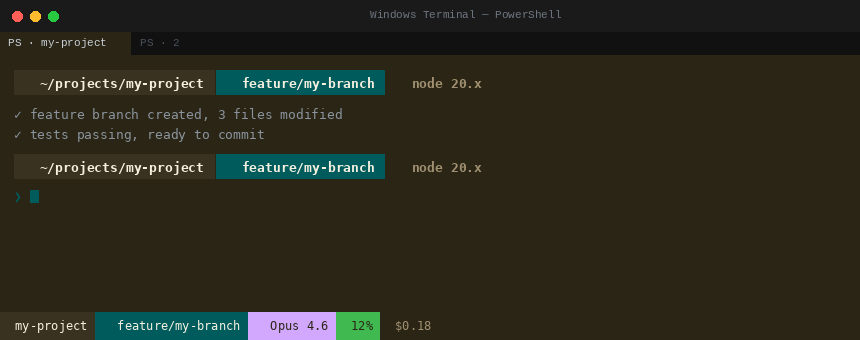
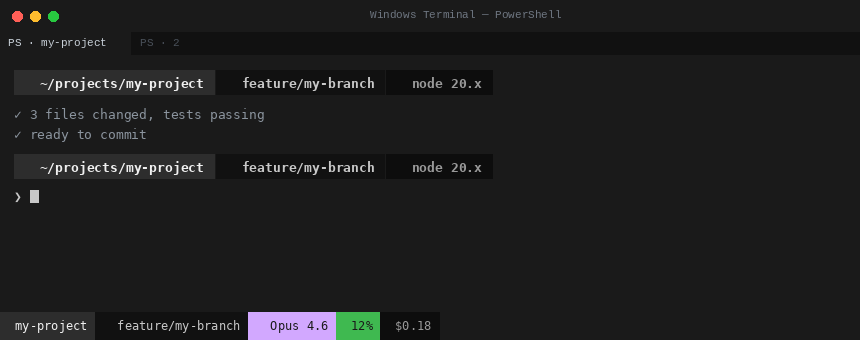
Update Steelheads theme in screenshots and GitHub Pages preview
Replace cream-sunday screenshot with new dark charcoal/off-white
Steelheads capture, and update index.html with Steelheads theme entry
honoring the 1946 Seattle Steelheads of the West Coast Negro Baseball League.

diff --git a/index.html b/index.html
@@ -162,7 +162,7 @@ h1 { font-size: 20px; font-weight: 700; margin-bottom: 4px; }
 <div id="install-area"></div>
 
 <div class="tip">
-  💡 <strong>Auto-switches by day of week</strong> — Friday loads City Connect automatically, Sunday loads Cream Sunday.
+  💡 <strong>Auto-switches by day of week</strong> — Friday loads City Connect automatically, Sunday loads the Steelheads throwback.
   Override anytime with <code>Set-Theme mariners-classic</code> (Windows) or <code>set-theme mariners-classic</code> (Mac).
   Run <code>List-Themes</code> to see the full schedule.
 </div>
@@ -347,47 +347,48 @@ const themes = [
     ],
   },
   {
-    id: 'cream-sunday',
-    label: '🥛 Cream Sunday',
-    pillBg: '#F5F0E0',
-    pillColor: '#0C2C56',
-    story: '<strong>Cream Sunday Fauxback</strong> — the vintage home alternate, worn Sundays. Warm cream base with navy + teal accents. Calm, classic. Auto-loads every Sunday. <span class="tag">#F5F0E0</span><span class="tag">#0C2C56</span><span class="tag">#005C5C</span>',
-    termBg: '#2a2515',
-    termFg: '#F5F0E0',
-    outputColor: '#a09070',
-    cursorColor: '#005C5C',
+    id: 'steelheads',
+    label: '⚾ Steelheads',
+    pillBg: '#2d2d2d',
+    pillColor: '#f0f0f0',
+    story: '<strong>Seattle Steelheads — Sunday</strong> — honoring the 1946 Seattle Steelheads of the West Coast Negro Baseball League. Black and off-white throwback. The Mariners are the first MLB team to feature a Negro Leagues uniform in regular rotation. Auto-loads every Sunday. <span class="tag">#1A1A1A</span><span class="tag">#2D2D2D</span><span class="tag">#F0F0F0</span>',
+    termBg: '#1a1a1a',
+    termFg: '#f0f0f0',
+    outputColor: '#999999',
+    cursorColor: '#c8c8c8',
     segments: [
-      { bg: '#3a3220', fg: '#F5F0E0', text: ' ~/projects/my-project' },
-      { bg: '#005C5C', fg: '#F5F0E0', text: ' feature/my-branch' },
-      { bg: '#2a2515', fg: '#a09070', text: ' node 20.x' },
+      { bg: '#2d2d2d', fg: '#f0f0f0', text: ' ~/projects/my-project' },
+      { bg: '#111111', fg: '#c8c8c8', text: ' feature/my-branch' },
+      { bg: '#0d0d0d', fg: '#999999', text: ' node 20.x' },
     ],
     statusSegs: [
-      { bg: '#3a3220', fg: '#F5F0E0', text: '📁 my-project' },
-      { bg: '#005C5C', fg: '#F5F0E0', text: '  feature/my-branch' },
-      { bg: '#d2a8ff', fg: '#2a2515', text: '🤖 Opus 4.6' },
-      { bg: '#3fb950', fg: '#2a2515', text: '▰▱▱▱▱ 7%' },
-      { bg: '#2a2515', fg: '#a09070', text: '💰 $0.42', right: true },
+      { bg: '#2d2d2d', fg: '#f0f0f0', text: '📁 my-project' },
+      { bg: '#111111', fg: '#c8c8c8', text: '  feature/my-branch' },
+      { bg: '#d2a8ff', fg: '#1a1a1a', text: '🤖 Opus 4.6' },
+      { bg: '#3fb950', fg: '#1a1a1a', text: '▰▱▱▱▱ 7%' },
+      { bg: '#0d0d0d', fg: '#999999', text: '💰 $0.42', right: true },
     ],
     palette: [
-      { hex: '#F5F0E0', name: 'Cream' },
-      { hex: '#0C2C56', name: 'Navy' },
-      { hex: '#005C5C', name: 'NW Green' },
-      { hex: '#a09070', name: 'Aged tan' },
-      { hex: '#2a2515', name: 'Bg' },
+      { hex: '#f0f0f0', name: 'Off-white' },
+      { hex: '#2d2d2d', name: 'Charcoal' },
+      { hex: '#111111', name: 'Near-black' },
+      { hex: '#c8c8c8', name: 'Silver' },
+      { hex: '#1a1a1a', name: 'Bg' },
     ],
-    filename: 'mariners-cream-sunday',
+    filename: 'mariners-steelheads',
     ohMyPoshLines: [
-      `<span class="cm"># teams/seattle-mariners/themes/mariners-cream-sunday.omp.json</span>`,
-      `<span class="cm"># Cream #F5F0E0 · Navy #0C2C56 · NW Green #005C5C</span>`,
+      `<span class="cm"># teams/seattle-mariners/themes/mariners-steelheads.omp.json</span>`,
+      `<span class="cm"># Honoring the 1946 Seattle Steelheads — West Coast Negro Baseball League</span>`,
+      `<span class="cm"># Off-white #F0F0F0 · Charcoal #2D2D2D · Near-black #111111</span>`,
       ``,
       `oh-my-posh init pwsh <span class="st">\\</span>`,
-      `  <span class="ky">--config</span> <span class="st">"~/.baseball-terminal/teams/seattle-mariners/themes/mariners-cream-sunday.omp.json"</span> <span class="st">\\</span>`,
+      `  <span class="ky">--config</span> <span class="st">"~/.baseball-terminal/teams/seattle-mariners/themes/mariners-steelheads.omp.json"</span> <span class="st">\\</span>`,
       `  | Invoke-Expression`,
       ``,
-      `<span class="cm"># Windows Terminal bg: #2a2515</span>`,
-      `  path bg: <span class="hx">#3a3220</span>  fg: <span class="hx">#F5F0E0</span>   <span class="cm"># Dark cream on warm</span>`,
-      `  git  bg: <span class="hx">#005C5C</span>  fg: <span class="hx">#F5F0E0</span>   <span class="cm"># NW Green + cream</span>`,
-      `  cursor:  <span class="hx">#005C5C</span>             <span class="cm"># Teal cursor</span>`,
+      `<span class="cm"># Windows Terminal bg: #1A1A1A</span>`,
+      `  path bg: <span class="hx">#2D2D2D</span>  fg: <span class="hx">#F0F0F0</span>   <span class="cm"># Charcoal + off-white</span>`,
+      `  git  bg: <span class="hx">#111111</span>  fg: <span class="hx">#C8C8C8</span>   <span class="cm"># Near-black + silver</span>`,
+      `  cursor:  <span class="hx">#C8C8C8</span>             <span class="cm"># Silver cursor</span>`,
     ],
   },
 ];
